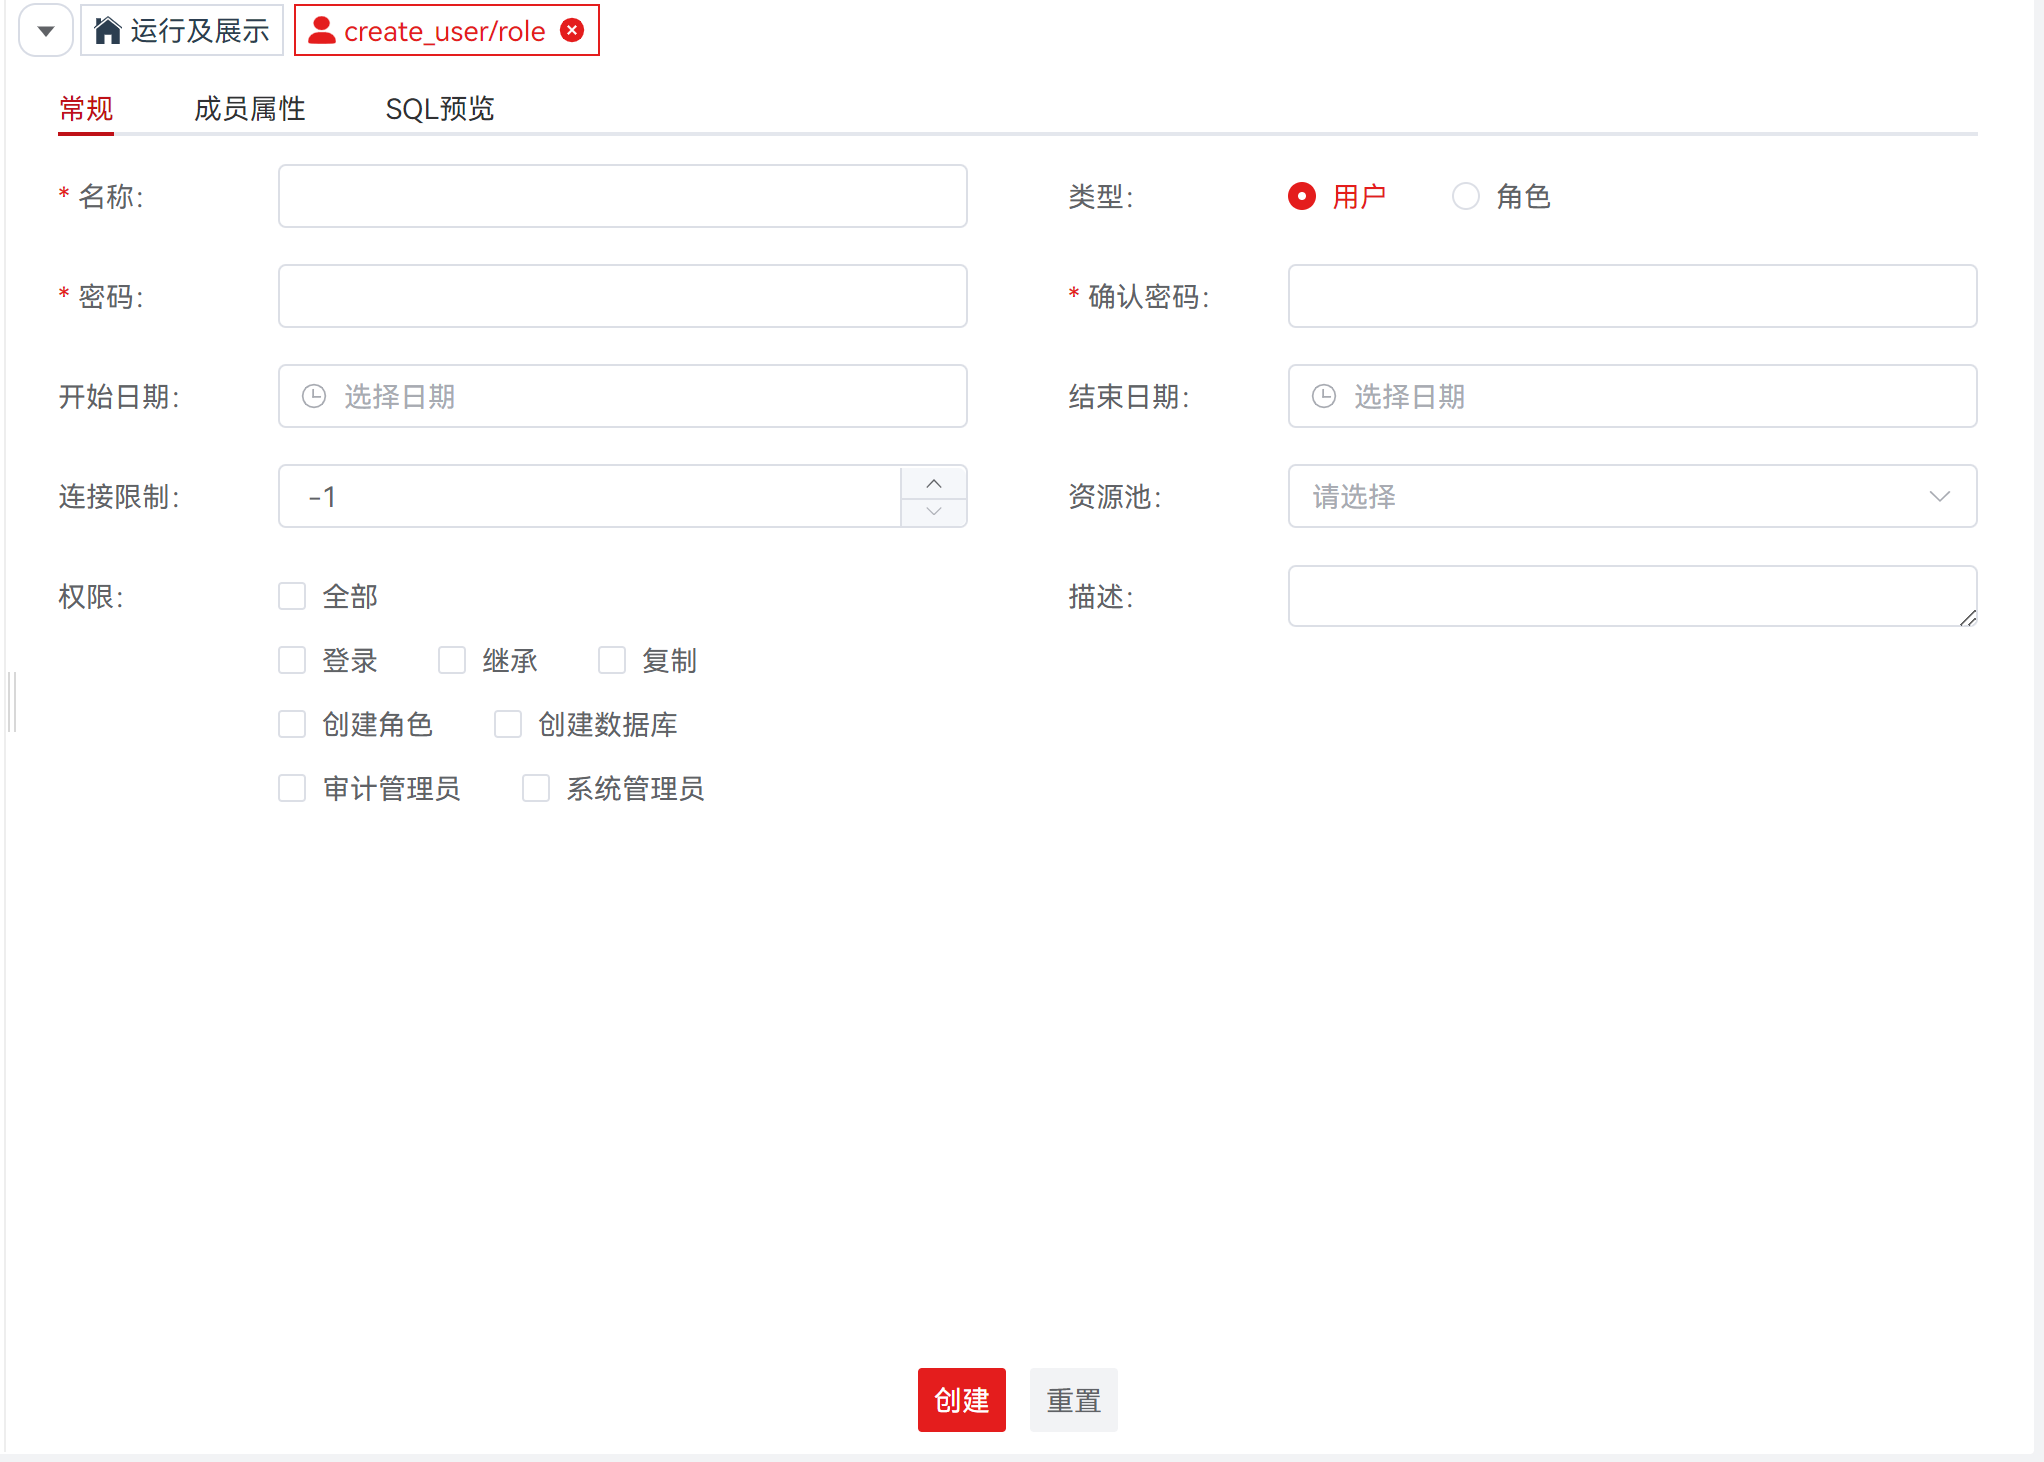
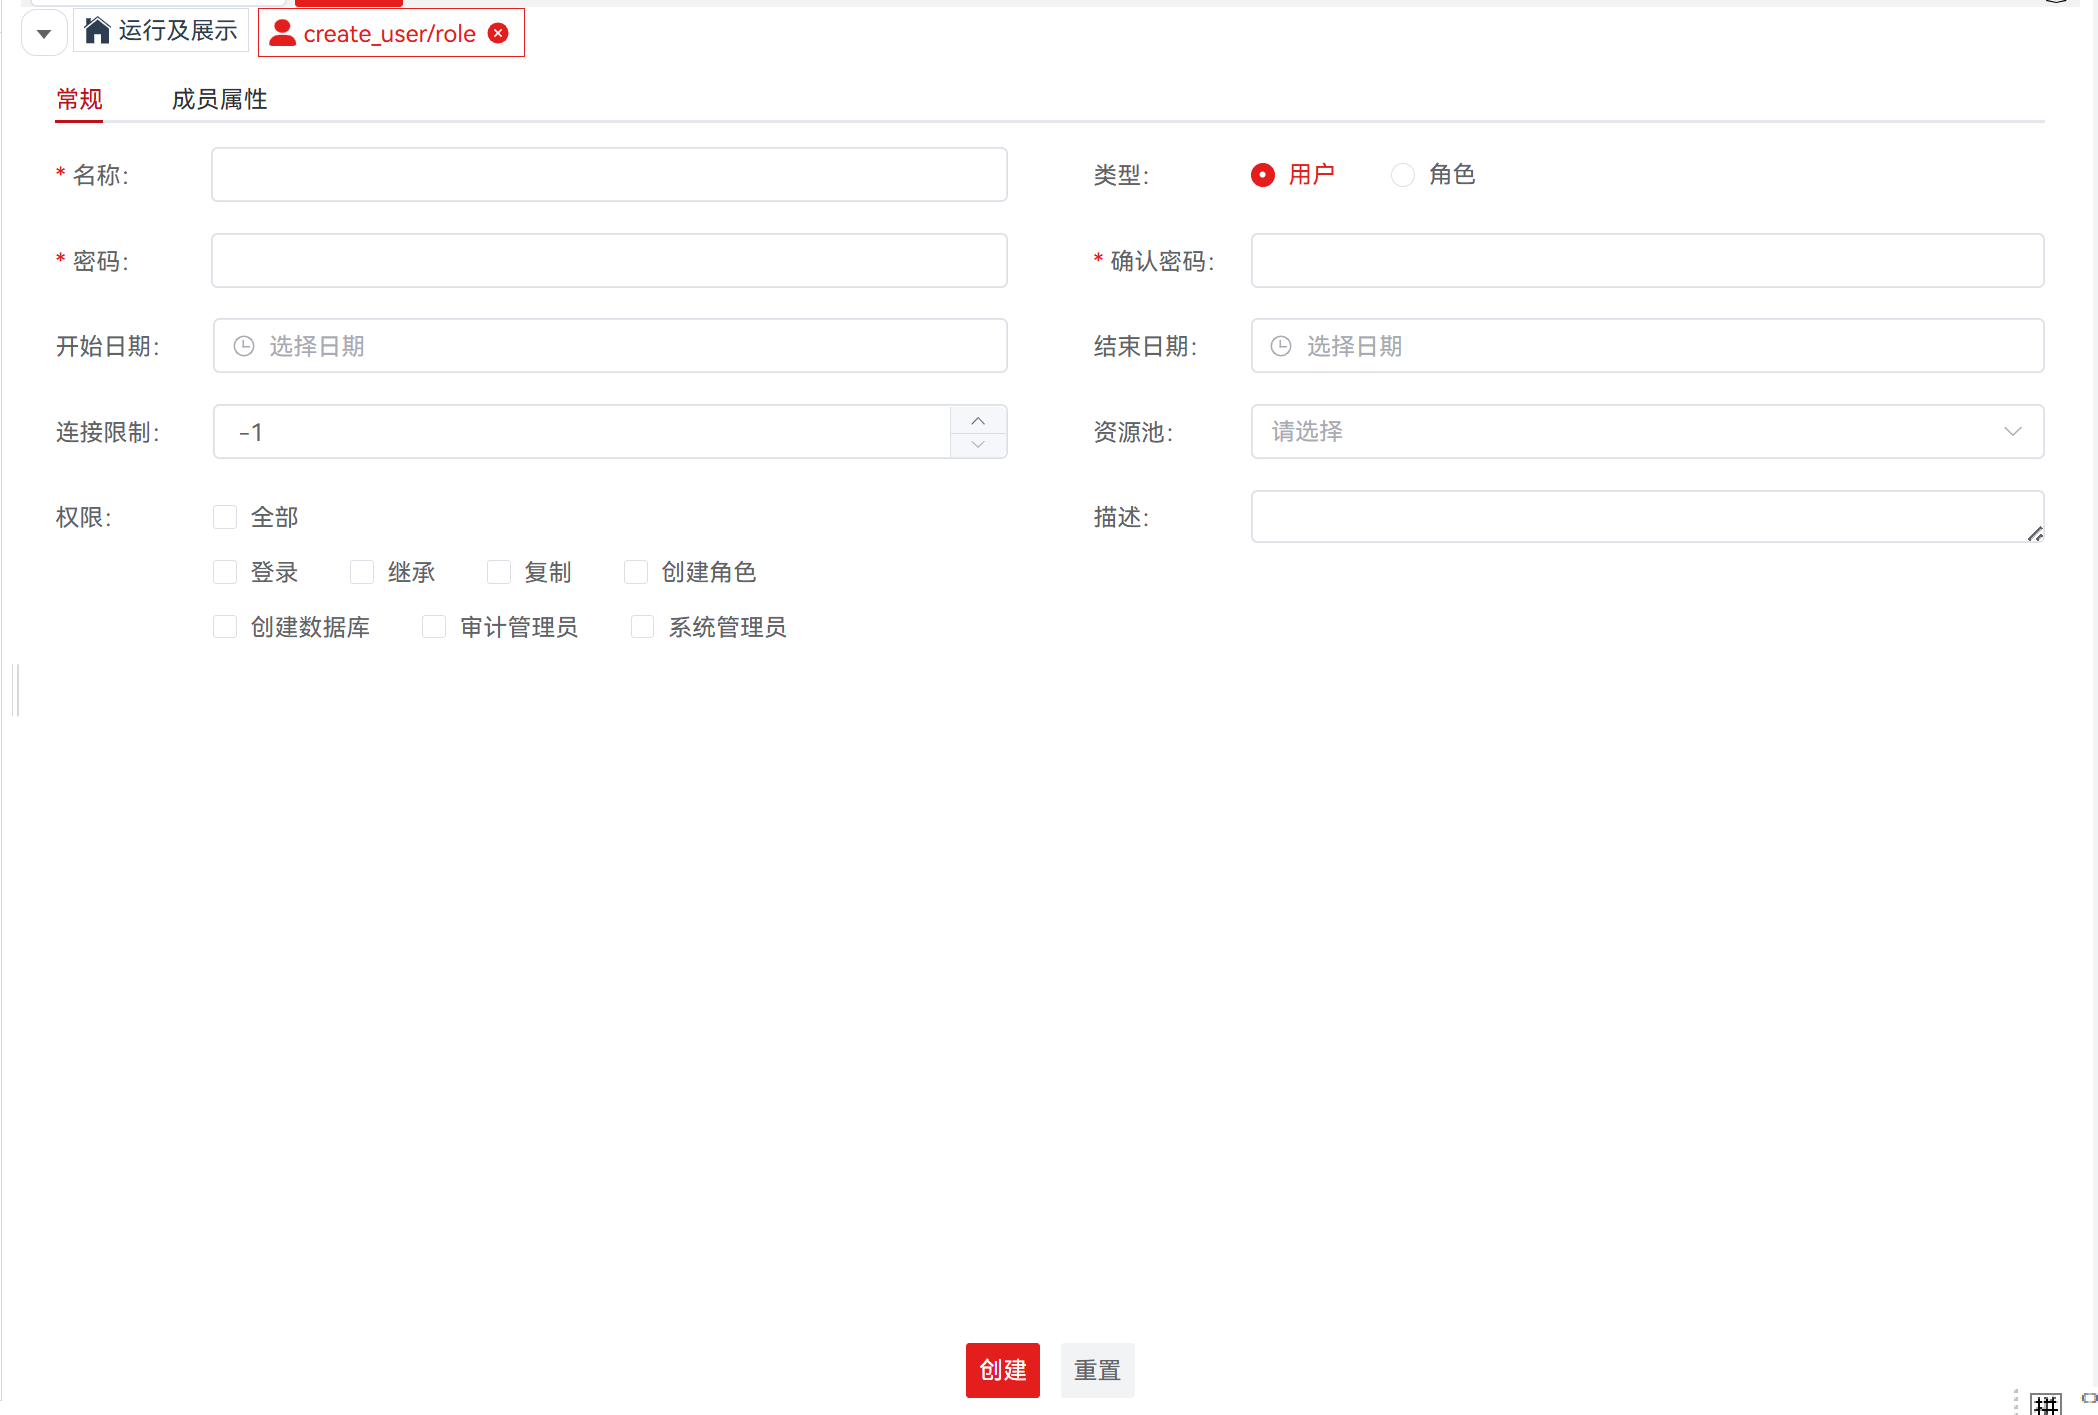
删除创建用户角色的sql预览功能，优化代码，更新readme文档

diff --git a/plugins/data-studio/web-ui/src/views/userRole/components/UserRole.vue b/plugins/data-studio/web-ui/src/views/userRole/components/UserRole.vue
@@ -4,7 +4,8 @@
       <el-tabs v-model="currentTabName" class="tabs" @tab-click="handleTabClick">
         <el-tab-pane :label="$t('userRole.create.tabs[0]')" name="GeneralTab" />
         <el-tab-pane :label="$t('userRole.create.tabs[1]')" name="MemberTab" />
-        <el-tab-pane
+        <el-tab-pane 
+          v-if="props.type != 'create'"
           :label="props.type == 'create' ? $t('userRole.create.tabs[2]') : 'DDL'"
           name="DDL"
         />
@@ -58,6 +59,7 @@
   import EventBus, { EventTypeName } from '@/utils/event-bus';
   import { previewUserRole, createUserRole } from '@/api/userRole';
   import { getUserRoleInfo, getUserRoleDdl, updateUserRoleInfo } from '@/api/userRole';
+  import Crypto from '@/utils/crypto';
 
   const props = withDefaults(
     defineProps<{
@@ -130,7 +132,7 @@
         uuid: commonParams.uuid,
         name: dataMap.GeneralTab.data.name,
         type: dataMap.GeneralTab.data.type,
-        password: dataMap.GeneralTab.data.password,
+        password: Crypto.encrypt(dataMap.GeneralTab.data.password),
         beginDate: dataMap.GeneralTab.data.beginDate,
         endDate: dataMap.GeneralTab.data.endDate,
         connectionLimit: dataMap.GeneralTab.data.connectionLimit,

diff --git a/plugins/data-studio/src/main/java/com/nctigba/datastudio/compatible/opengauss/UserObjectSQLServiceImpl.java b/plugins/data-studio/src/main/java/com/nctigba/datastudio/compatible/opengauss/UserObjectSQLServiceImpl.java
@@ -31,6 +31,7 @@ import com.nctigba.datastudio.model.dto.DatabaseUserInfoDTO;
 import com.nctigba.datastudio.model.dto.DatabaseUsserCheckDTO;
 import com.nctigba.datastudio.model.dto.UpdateUserAttributeDTO;
 import com.nctigba.datastudio.model.dto.UpdateUserPasswordDTO;
+import com.nctigba.datastudio.utils.SecretUtils;
 import lombok.extern.slf4j.Slf4j;
 import org.opengauss.admin.common.utils.StringUtils;
 import org.springframework.beans.factory.annotation.Autowired;
@@ -93,7 +94,7 @@ public class UserObjectSQLServiceImpl implements UserObjectSQLService {
         if (passwordType.equals("true")) {
             password = "********";
         } else {
-            password = request.getPassword();
+            password = SecretUtils.desEncrypt(request.getPassword());
         }
         StringBuilder userRole = new StringBuilder();
         if (request.getType().equals("user")) {
@@ -211,7 +212,7 @@ public class UserObjectSQLServiceImpl implements UserObjectSQLService {
             ) {
                 resultSet.next();
                 List<String> power = new ArrayList<>();
-                log.info("aaaaaaa sql is: " + resultSet.getString("belong"));
+                log.info("sql is: " + resultSet.getString("belong"));
                 if ("user".equals(request.getType())) {
                     listAddNotNull(resultSet.getString("rolcanlogin"), power);
                 }

diff --git a/plugins/data-studio/src/main/java/com/nctigba/datastudio/controller/DatabaseUserController.java b/plugins/data-studio/src/main/java/com/nctigba/datastudio/controller/DatabaseUserController.java
@@ -56,17 +56,6 @@ public class DatabaseUserController {
      * create user
      *
      * @param request request
-     * @return String
-     */
-    @PostMapping(value = "/user/create/preview", produces = MediaType.APPLICATION_JSON_VALUE)
-    public String createUserPreviewDDL(@RequestBody DatabaseCreateUserDTO request) {
-        return databaseUserService.createUserPreviewDDL(request);
-    }
-
-    /**
-     * create user
-     *
-     * @param request request
      */
     @PostMapping(value = "/user/create", produces = MediaType.APPLICATION_JSON_VALUE)
     public void createUserDDL(@RequestBody DatabaseCreateUserDTO request) {

diff --git a/plugins/data-studio/src/main/java/com/nctigba/datastudio/service/impl/sql/DatabaseUserServiceImpl.java b/plugins/data-studio/src/main/java/com/nctigba/datastudio/service/impl/sql/DatabaseUserServiceImpl.java
@@ -76,11 +76,6 @@ public class DatabaseUserServiceImpl implements DatabaseUserService {
     }
 
     @Override
-    public String createUserPreviewDDL(DatabaseCreateUserDTO request) {
-        return userObjectSQLServiceMap.get(comGetUuidType(request.getUuid())).createUserPreviewDDL(request, "true");
-    }
-
-    @Override
     public String userPreviewDDL(DatabaseReturnUserDdlDTO request) throws SQLException {
         return userObjectSQLServiceMap.get(comGetUuidType(request.getUuid())).userPreviewDDL(request);
     }

diff --git a/plugins/data-studio/src/main/java/com/nctigba/datastudio/service/DatabaseUserService.java b/plugins/data-studio/src/main/java/com/nctigba/datastudio/service/DatabaseUserService.java
@@ -39,14 +39,6 @@ import java.sql.SQLException;
  */
 public interface DatabaseUserService {
     /**
-     * create user preview ddl
-     *
-     * @param request request
-     * @return String
-     */
-    String createUserPreviewDDL(DatabaseCreateUserDTO request);
-
-    /**
      * user preview ddl
      *
      * @param request request

diff --git a/plugins/data-studio/readme.md b/plugins/data-studio/readme.md
@@ -1,4 +1,4 @@
-# 业务开发-用户操作手册
+业务开发-用户操作手册
 
 
 
@@ -2740,8 +2740,6 @@ mvn clean package -P prod
 
 **步骤 3：** 点击 "**成员属性**" ，定义成员所有者等。详情请参见 **定义成员属性** 。
 
-**步骤 4：** 点击 "**DDL 预览**" ，查看输入所自动生成的 SQL 查询。详情请参见 **DDL 预览** 。
-
 
 
 **创建**
@@ -2785,16 +2783,6 @@ mvn clean package -P prod
 | 管理员组   | 否       | 用于指定该用户/角色的管理员组，默认为空；若为空，该用户/角色默认不归属于任何人。即该用户/角色不是任何其他角色或用户的子集，其权限和访问范围由角色本身的权限和授权决定 |
 
 <img src="photo/5-11-1.2.png" style="zoom:50%;" />
-
-
-
-**DDL 预览**
-
-        按照输入的内容，生成一个DDL 语句。
-
-        **说明：** 该 DDL 语句仅支持查看、选择、复制，不支持编辑。
-
-<img src="photo/5-11-1.3.png" style="zoom:50%;" />
 
 
 
